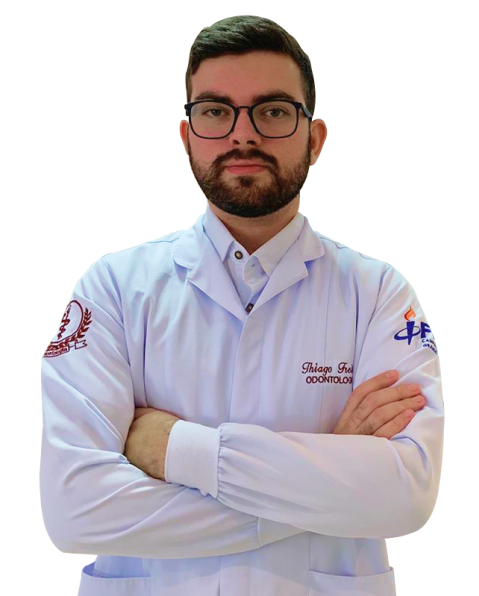
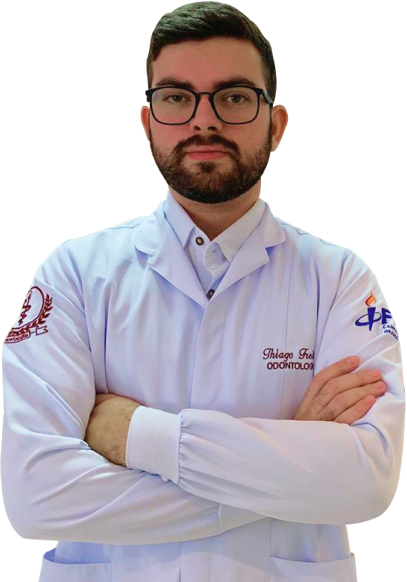
refactor: responsiveness in the profile section

diff --git a/src/components/sections/ProfileSection/styles.scss b/src/components/sections/ProfileSection/styles.scss
@@ -1,29 +1,34 @@
 @import "/src/global.scss";
 
-.half {
-  width: 50%;
-  height: 100vh;
-  display: flex;
-  justify-content: center;
-  flex-direction: column;
-  padding-right: 17rem;
+.profile-section {
+  flex-direction: column-reverse;
+  height: 100%;
 
-  p {
-    text-align: justify;
-    font-size: 1.6rem;
-  }
-
-  h3 {
-    margin-top: 2rem;
-    font-size: 1.7rem;
+  #image-container {
+    display: flex;
+    justify-content: center;
   }
 }
 
-.thiago-patient-image {
-  width: 37.2rem;
-  height: 49.76rem;
-  margin-left: 17rem;
-  box-shadow: 0 25px 50px -12px rgb(0 0 0 / 0.25);
+.half {
+  margin: auto;
+  padding: 2rem 4rem;
+
+  p {
+    text-align: justify;
+    font-size: 1.5rem;
+    margin: 2rem 0;
+  }
+
+  h3 {
+    font-size: 1.7rem;
+  }
+
+  .thiago-patient-image {
+    object-fit: cover;
+    width: 90%;
+    box-shadow: 0 25px 50px -12px rgb(0 0 0 / 0.25);
+  }
 }
 
 .profile-title {
@@ -31,5 +36,47 @@
   font-style: bold;
   font-size: 2.5rem;
   text-align: center;
-  margin-bottom: 3rem;
+  padding: 1rem 1rem 3rem 1rem;
+}
+
+@media screen and (min-width: 600px) {
+  .half {
+    .thiago-patient-image {
+      width: 55%;
+    }
+  }
+}
+
+@media screen and (min-width: 1023px) {
+  .profile-section {
+    height: 100vh;
+    flex-direction: row;
+    margin: 0 6rem;
+
+    #info-container {
+      padding: 6rem;
+    }
+  }
+
+  .half {
+    width: 50%;
+    padding: 0;
+
+    h3 {
+      font-size: 2rem;
+    }
+
+    p {
+      font-size: 2rem;
+      margin: 2rem 0;
+    }
+
+    .thiago-patient-image {
+      width: 70%;
+    }
+  }
+
+  .profile-title {
+    font-size: 3rem;
+  }
 }

diff --git a/src/components/sections/ProfileSection/index.jsx b/src/components/sections/ProfileSection/index.jsx
@@ -4,7 +4,7 @@ import thiagoAndPatient from "../../../assets/thiago-and-patient.jpeg";
 const ProfileSection = () => {
   return (
     <section id="profile" className="profile-section">
-      <div className="half">
+      <div id="image-container" className="half">
         <img
           className="thiago-patient-image"
           src={thiagoAndPatient}
@@ -12,12 +12,11 @@ const ProfileSection = () => {
         />
       </div>
 
-      <div className="half">
+      <div id="info-container" className="half">
         <h2 className="profile-title">Perfil Profissional</h2>
 
         <h3>Dr. Thiago Freitas</h3>
         <p>
-          <br />
           Como dentista apaixonado pela saúde bucal e pelo sorriso de meus
           pacientes, dedico minha carreira a proporcionar cuidados odontológicos
           excepcionais. Com uma sólida formação acadêmica, busco constantemente
@@ -27,15 +26,12 @@ const ProfileSection = () => {
 
         <h3>Educação e Formação:</h3>
         <p>
-          <br />
           <li>Graduação em Odontologia ( FIP Campina Grande )</li>
         </p>
         <p>
-          <br />
           <li>Aperfeiçoamento em Cirugia Oral Menor ( FIP Campina Grande )</li>
         </p>
         <p>
-          <br />
           <li>Pós graduando em Ortodontia ( Funorte Campina grande )</li>
         </p>
       </div>

diff --git a/src/components/sections/InitialSection/styles.scss b/src/components/sections/InitialSection/styles.scss
@@ -4,6 +4,7 @@
   margin: 0;
   align-items: center;
   flex-direction: column;
+  height: 100%;
 }
 
 .link {
@@ -88,7 +89,7 @@
   .thiago-image {
     background: none;
     margin-top: 4rem;
-    width: 32rem;
+    width: 28rem;
     z-index: 3;
   }
 }

diff --git a/src/styles.scss b/src/styles.scss
@@ -24,12 +24,10 @@ body {
 body {
   width: 100%;
   background-color: $color-white;
-  height: 100vh;
 }
 
 section {
   display: flex;
-  height: 100vh;
 }
 
 .title-section {

diff --git a/src/components/sections/TreatmentsSection/styles.scss b/src/components/sections/TreatmentsSection/styles.scss
@@ -6,7 +6,7 @@
 
 .treatments-subtitle {
   text-align: center;
-  color: #072441;
+  color: $color-text;
   font-style: normal;
   font-size: 2rem;
   margin-bottom: 4rem;

diff --git a/src/pages/Home/index.jsx b/src/pages/Home/index.jsx
@@ -11,7 +11,7 @@ const Home = () => {
     <>
       <InitialSection />
 
-      {/* <ProfileSection /> */}
+      <ProfileSection />
 
       {/*<TreatmentsSection />
 
